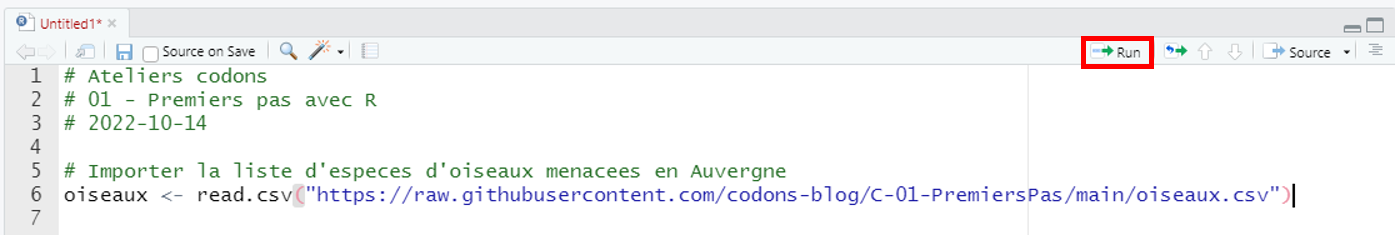
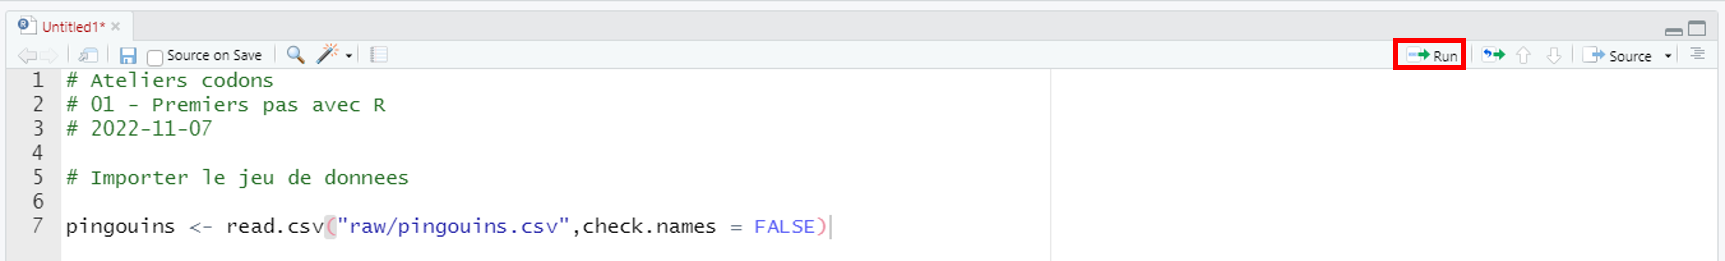
updated post #2

diff --git a/_site/posts/02-premiers-pas-avec-r/index.html b/_site/posts/02-premiers-pas-avec-r/index.html
@@ -212,10 +212,6 @@ code span.wa { color: #60a0b0; font-weight: bold; font-style: italic; } /* Warni
   <li><a href="#créer-une-arborescence" id="toc-créer-une-arborescence" class="nav-link" data-scroll-target="#créer-une-arborescence">Créer une arborescence</a></li>
   <li><a href="#importer-les-données" id="toc-importer-les-données" class="nav-link" data-scroll-target="#importer-les-données">Importer les données</a></li>
   </ul></li>
-  <li><a href="#manipuler-des-données" id="toc-manipuler-des-données" class="nav-link" data-scroll-target="#manipuler-des-données">Manipuler des données</a>
-  <ul class="collapse">
-  <li><a href="#importer-un-jeu-de-données" id="toc-importer-un-jeu-de-données" class="nav-link" data-scroll-target="#importer-un-jeu-de-données">Importer un jeu de données</a></li>
-  </ul></li>
   </ul>
 </nav>
     </div>
@@ -503,8 +499,9 @@ Raccourcis clavier : commentaires
 <ul>
 <li>le chemin vers le fichier à importer, <strong>entre guillemets</strong> :<code>"raw/pingouins.csv"</code><br>
 </li>
-<li>l’argument <code>check.names = FALSE</code> pour garder les noms de colonnes tels quels</li>
+<li>l’argument <code>check.names = FALSE</code> pour garder les noms de colonnes tels quels.</li>
 </ul>
+<p>Tapez le code suivant dans la console et appuyez sur <strong>Entrée</strong> :</p>
 <div class="cell">
 <div class="sourceCode cell-code" id="cb4"><pre class="sourceCode r code-with-copy"><code class="sourceCode r"><span id="cb4-1"><a href="#cb4-1" aria-hidden="true" tabindex="-1"></a><span class="fu">read.csv</span>(<span class="at">file =</span> <span class="st">"raw/pingouins.csv"</span>, <span class="at">check.names =</span> <span class="cn">FALSE</span>)</span></code><button title="Copy to Clipboard" class="code-copy-button"><i class="bi"></i></button></pre></div>
 </div>
@@ -512,7 +509,40 @@ Raccourcis clavier : commentaires
 
 </div>
 <p><img src="img/rstudio_20.png" class="img-fluid" style="width:100.0%"></p>
-<p>Sauvegardez votre script (et pensez à le faire régulièrement !) en cliquant sur l’icône disquette en haut de votre script :</p>
+<div class="callout-caution callout callout-style-default callout-captioned">
+<div class="callout-header d-flex align-content-center">
+<div class="callout-icon-container">
+<i class="callout-icon"></i>
+</div>
+<div class="callout-caption-container flex-fill">
+Bonne pratiques : auto-complétion
+</div>
+</div>
+<div class="callout-body-container callout-body">
+<p>R vous aide à compléter votre code : tapez <code>re</code> puis <strong>Tab</strong>, et vous verrez s’afficher une liste de fonctions ou d’objets commençant par ces deux lettres. Vous pouvez naviguer à l’aide des flèches haut et bas et valider votre choix en appuyant à nouveau sur <strong>Tab</strong>. Cette fonctionnalité de R est particulièrement utile lorsque vous manipulez des fichiers ou objets ayant des noms complexes.</p>
+</div>
+</div>
+<p>Le fichier a effectivement été importé dans R, mais il n’est pour l’instant pas stocké dans notre environnement. Nous allons pour cela stocker le contenu du fichier dans un objet à l’aide de la <strong>flèche d’assignation <code>&lt;-</code></strong>. Placez-vous dans votre script et tapez le code suivant :</p>
+<div class="cell">
+<div class="sourceCode cell-code" id="cb5"><pre class="sourceCode r code-with-copy"><code class="sourceCode r"><span id="cb5-1"><a href="#cb5-1" aria-hidden="true" tabindex="-1"></a>pingouins <span class="ot">&lt;-</span> <span class="fu">read.csv</span>(<span class="at">file =</span> <span class="st">"raw/pingouins.csv"</span>, <span class="at">check.names =</span> <span class="cn">FALSE</span>)</span></code><button title="Copy to Clipboard" class="code-copy-button"><i class="bi"></i></button></pre></div>
+</div>
+<div class="callout-tip callout callout-style-default callout-captioned">
+<div class="callout-header d-flex align-content-center">
+<div class="callout-icon-container">
+<i class="callout-icon"></i>
+</div>
+<div class="callout-caption-container flex-fill">
+Raccourcis clavier : flèche d’assignation
+</div>
+</div>
+<div class="callout-body-container callout-body">
+<p>Pour insérer une flèche d’assignation, utilisez la combinaison <strong>Alt + “-”</strong> (tiret du 6).</p>
+</div>
+</div>
+<p>Exécutez cette fonction en plaçant le curseur sur la ligne et en cliquant sur <strong>Run</strong> :</p>
+<p><img src="img/rstudio_11.png" class="img-fluid" style="width:100.0%"></p>
+<p>::: {.callout-tip icon=“true”} ## Raccourcis clavier : exécuter du code</p>
+<p>Pour exécuter une ou plusieurs lignes de code, sélectionnez les lignes et utilisez la combinaison <strong>Ctrl + Entrée</strong> :::Sauvegardez votre script (et pensez à le faire régulièrement !) en cliquant sur l’icône disquette en haut de votre script :</p>
 <p><img src="img/rstudio_18.png" class="img-fluid" style="width:100.0%"></p>
 <p>Choisissez le dossier où sera sauvegardé votre script - <strong>scripts</strong> dans notre cas, et nommez votre script puis cliquez sur <strong>Save</strong> :</p>
 <p><img src="img/rstudio_19.png" class="img-fluid" style="width:100.0%"></p>
@@ -527,67 +557,6 @@ Raccourcis clavier : sauvegarder un script
 </div>
 <div class="callout-body-container callout-body">
 <p>Pour sauvegarder un script, uilisez la combinaison <strong>Ctrl + S</strong></p>
-</div>
-</div>
-</section>
-</section>
-<section id="manipuler-des-données" class="level1">
-<h1>Manipuler des données</h1>
-<section id="importer-un-jeu-de-données" class="level2">
-<h2 class="anchored" data-anchor-id="importer-un-jeu-de-données">Importer un jeu de données</h2>
-<p>Nous allons analyser une liste d’espèces d’oiseaux menacées en Auvergne (données de 2015 obtenues sur le site de la <a href="https://www.auvergne-rhone-alpes.developpement-durable.gouv.fr/liste-rouge-des-oiseaux-d-auvergne-a9939.html">DREAL</a>).</p>
-<p>Ces données se trouvent dans un fichier appelé <code>oiseaux.csv</code>, disponible en ligne, que nous allons télécharger.</p>
-<p>Nous allons pour cela utiliser une <strong>fonction</strong> de R. Une fonction permet d’exécuter une action : calculer une somme, importer ou exporter un fichier, ajouter une colonne dans un tableau, …</p>
-<p>Toutes les fonctions se présentent de la façon suivante :</p>
-<div class="cell">
-<div class="sourceCode cell-code" id="cb5"><pre class="sourceCode r code-with-copy"><code class="sourceCode r"><span id="cb5-1"><a href="#cb5-1" aria-hidden="true" tabindex="-1"></a><span class="fu">ma_fonction</span>(data, arguments, ...)</span></code><button title="Copy to Clipboard" class="code-copy-button"><i class="bi"></i></button></pre></div>
-</div>
-<p>On fait appel à la fonction en tapant son nom, puis on précise les arguments de la fonction entre parenthèses. Un argument peut être obligatoire ou optionnel, et modifie la façon dont la fonction est exécutée.</p>
-<p>Notre première ligne de code va donc télécharger le fichier <code>oiseaux.csv</code> et stocker ce fichier dans un objet de notre environnement R : nous assignons le fichier à l’objet. Cette opération s’effectue à l’aide de la flèche d’assignation <code>&lt;-</code> :</p>
-<div class="cell">
-<div class="sourceCode cell-code" id="cb6"><pre class="sourceCode r code-with-copy"><code class="sourceCode r"><span id="cb6-1"><a href="#cb6-1" aria-hidden="true" tabindex="-1"></a><span class="co"># Importer la liste d'especes d'oiseaux menacees en Auvergne</span></span>
-<span id="cb6-2"><a href="#cb6-2" aria-hidden="true" tabindex="-1"></a>oiseaux <span class="ot">&lt;-</span> <span class="fu">read.csv</span>(<span class="st">"https://raw.githubusercontent.com/codons-blog/C-01-PremiersPas/main/oiseaux.csv"</span>)</span></code><button title="Copy to Clipboard" class="code-copy-button"><i class="bi"></i></button></pre></div>
-</div>
-<p>Notez la présence des guillemets autour du lien vers le fichier : utlisez toujours des guillements lorsque vous indiquez un chemin vers un fichier.</p>
-<div class="callout-caution callout callout-style-default callout-captioned">
-<div class="callout-header d-flex align-content-center">
-<div class="callout-icon-container">
-<i class="callout-icon"></i>
-</div>
-<div class="callout-caption-container flex-fill">
-Bonne pratiques : auto-complétion
-</div>
-</div>
-<div class="callout-body-container callout-body">
-<p>R vous aide à compléter votre code : tapez <code>re</code> puis <strong>Tab</strong>, et vous verrez s’afficher une liste de fonctions ou d’objets commençant par ces deux lettres. Vous pouvez naviguer à l’aide des flèches haut et bas et valider votre choix en appuyant à nouveau sur <strong>Tab</strong>. Cette fonctionnalité de R est particulièrement utile lorsque vous manipulez des fichiers ou objets ayant un nom complexe.</p>
-</div>
-</div>
-<div class="callout-tip callout callout-style-default callout-captioned">
-<div class="callout-header d-flex align-content-center">
-<div class="callout-icon-container">
-<i class="callout-icon"></i>
-</div>
-<div class="callout-caption-container flex-fill">
-Raccourcis clavier : flèche d’assignation
-</div>
-</div>
-<div class="callout-body-container callout-body">
-<p>Pour insérer une flèche d’assignation, utilisez la combinaison <strong>ALt + “-”</strong> (tiret du 6).</p>
-</div>
-</div>
-<p>Exécutez cette fonction en plaçant le curseur sur la ligne et en cliquant sur <strong>Run</strong> :</p>
-<p><img src="img/rstudio_11.png" class="img-fluid" style="width:100.0%"></p>
-<div class="callout-tip callout callout-style-default callout-captioned">
-<div class="callout-header d-flex align-content-center">
-<div class="callout-icon-container">
-<i class="callout-icon"></i>
-</div>
-<div class="callout-caption-container flex-fill">
-Raccourcis clavier : exécuter du code
-</div>
-</div>
-<div class="callout-body-container callout-body">
-<p>Pour exécuter une ou plusieurs lignes de code, sélectionnez les lignes et utilisez la combinaison <strong>Ctrl + Entrée</strong></p>
 </div>
 </div>
 <p>Notre environnement contient maintenant un objet <strong>oiseaux</strong>, et vous pouvez voir l’indication <code>172 obs. of 4 variables</code> : le jeu de données contient 172 observations (lignes) et 4 variables (colonnes).</p>
